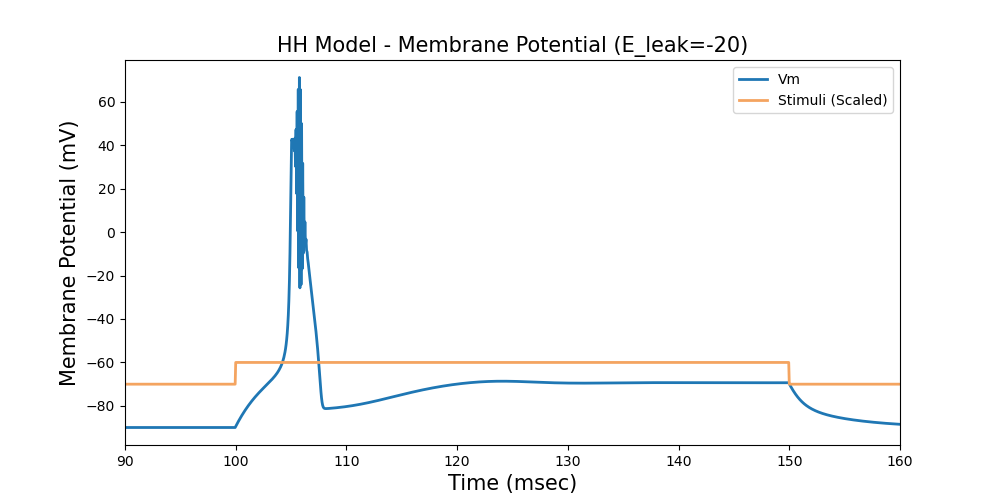
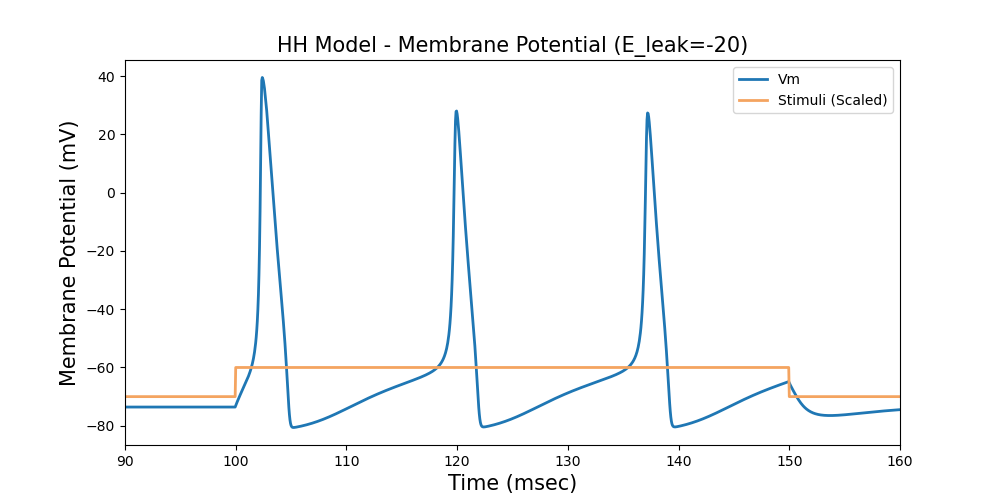
update

diff --git a/point_neuronal_dynamic_models/HnH.py b/point_neuronal_dynamic_models/HnH.py
@@ -1,3 +1,4 @@
+import sys
 import numpy as np
 import matplotlib.pyplot as plt
 
@@ -119,7 +120,7 @@ class HhModel:
         self.h.beta = 1 / (np.exp((30 - V_m) / 10) + 1)
 
     def update_cell_voltage(self, stimulus_current: float, delta_tms: float) -> None:
-        self.I_Na = np.power(self.m.state, 3) * self.g_Na * self.h.state*(self.V_m - self.E_Na)
+        self.I_Na = np.power(self.m.state, 3) * self.g_Na * self.h.state * (self.V_m - self.E_Na)
         self.I_K = np.power(self.n.state, 4) * self.g_K * (self.V_m - self.E_K)
         self.I_leak = self.g_leak * (self.V_m - self.E_leak)
         self.I_sum = stimulus_current - self.I_Na - self.I_K - self.I_leak
@@ -163,18 +164,24 @@ class HhModel:
         
 
 def main():
-    experiments = [
-        ('E_Na=40',    {'E_Na': 40,  'E_K': -12, 'E_leak': 10.6}),  # Low E_Na
-        ('E_K=10',     {'E_Na': 100, 'E_K': 10,  'E_leak': 10.6}),  # High E_K
-        ('E_leak=-20', {'E_Na': 115, 'E_K': -12, 'E_leak': -20}),   # Low E_leak
-    ]
+    to_file = len(sys.argv) > 1 and sys.argv[1] == '--savefig'
 
+    # experiments = [("", {'E_Na': x, 'E_K': -12, 'E_leak': 10.6}) for x in range(50, 200, 5)]
+    # experiments = [("", {'E_Na': 115, 'E_K': x, 'E_leak': 10.6}) for x in range(0, 100, 2)]
+    # experiments = [("", {'E_Na': 115, 'E_K': -12, 'E_leak': x}) for x in range(-30, 30, 2)]
+
+    experiments = [
+        # ("default",    {'E_Na': 115, 'E_K': -12, 'E_leak': 10.6}),    # Standard values
+        ('E_Na=180',   {'E_Na': 180,  'E_K': -12, 'E_leak': 10.6}),     # High E_Na
+        ('E_K=10',     {'E_Na': 100, 'E_K': 10,  'E_leak': 10.6}),      # High E_K
+        ('E_leak=0', {'E_Na': 115, 'E_K': -12, 'E_leak': 0}),           # Low E_leak
+    ]
 
     for case_identifier, E_kwargs in experiments:
         print(', '.join([f'{k}={v}' for k, v in E_kwargs.items()]))
         hh = HhModel(**E_kwargs)
         results = hh.simulate(point_count=5000)
-        results.plot(membrane_potential=True, to_file=True, identifier=case_identifier)
+        results.plot(membrane_potential=True, gate_states=False, ion_currents=True, to_file=to_file, identifier=case_identifier)
 
 
 if __name__ == '__main__':
@@ -182,11 +189,13 @@ if __name__ == '__main__':
 
 
 # additional_interesting_cases = [
-#     {'E_Na': 115, 'E_K': -12, 'E_leak': 10.6},    # Standard values
 #     {'E_Na': 100, 'E_K': -12, 'E_leak': 10.6},
 #     {'E_Na': 190, 'E_K': -12, 'E_leak': 10.6},
 #     {'E_Na': 100, 'E_K': -45, 'E_leak': 10.6},
 #     {'E_Na': 100, 'E_K': -30, 'E_leak': 10.6},
 #     {'E_Na': 100, 'E_K': 5,   'E_leak': 10.6},
 #     {'E_Na': 115, 'E_K': -12, 'E_leak': 350},
+#     {'E_Na': 40,  'E_K': -12, 'E_leak': 10.6},
+#     {'E_Na': 100, 'E_K': 10,  'E_leak': 10.6},
+#     {'E_Na': 115, 'E_K': -12, 'E_leak': -20}
 # ]
